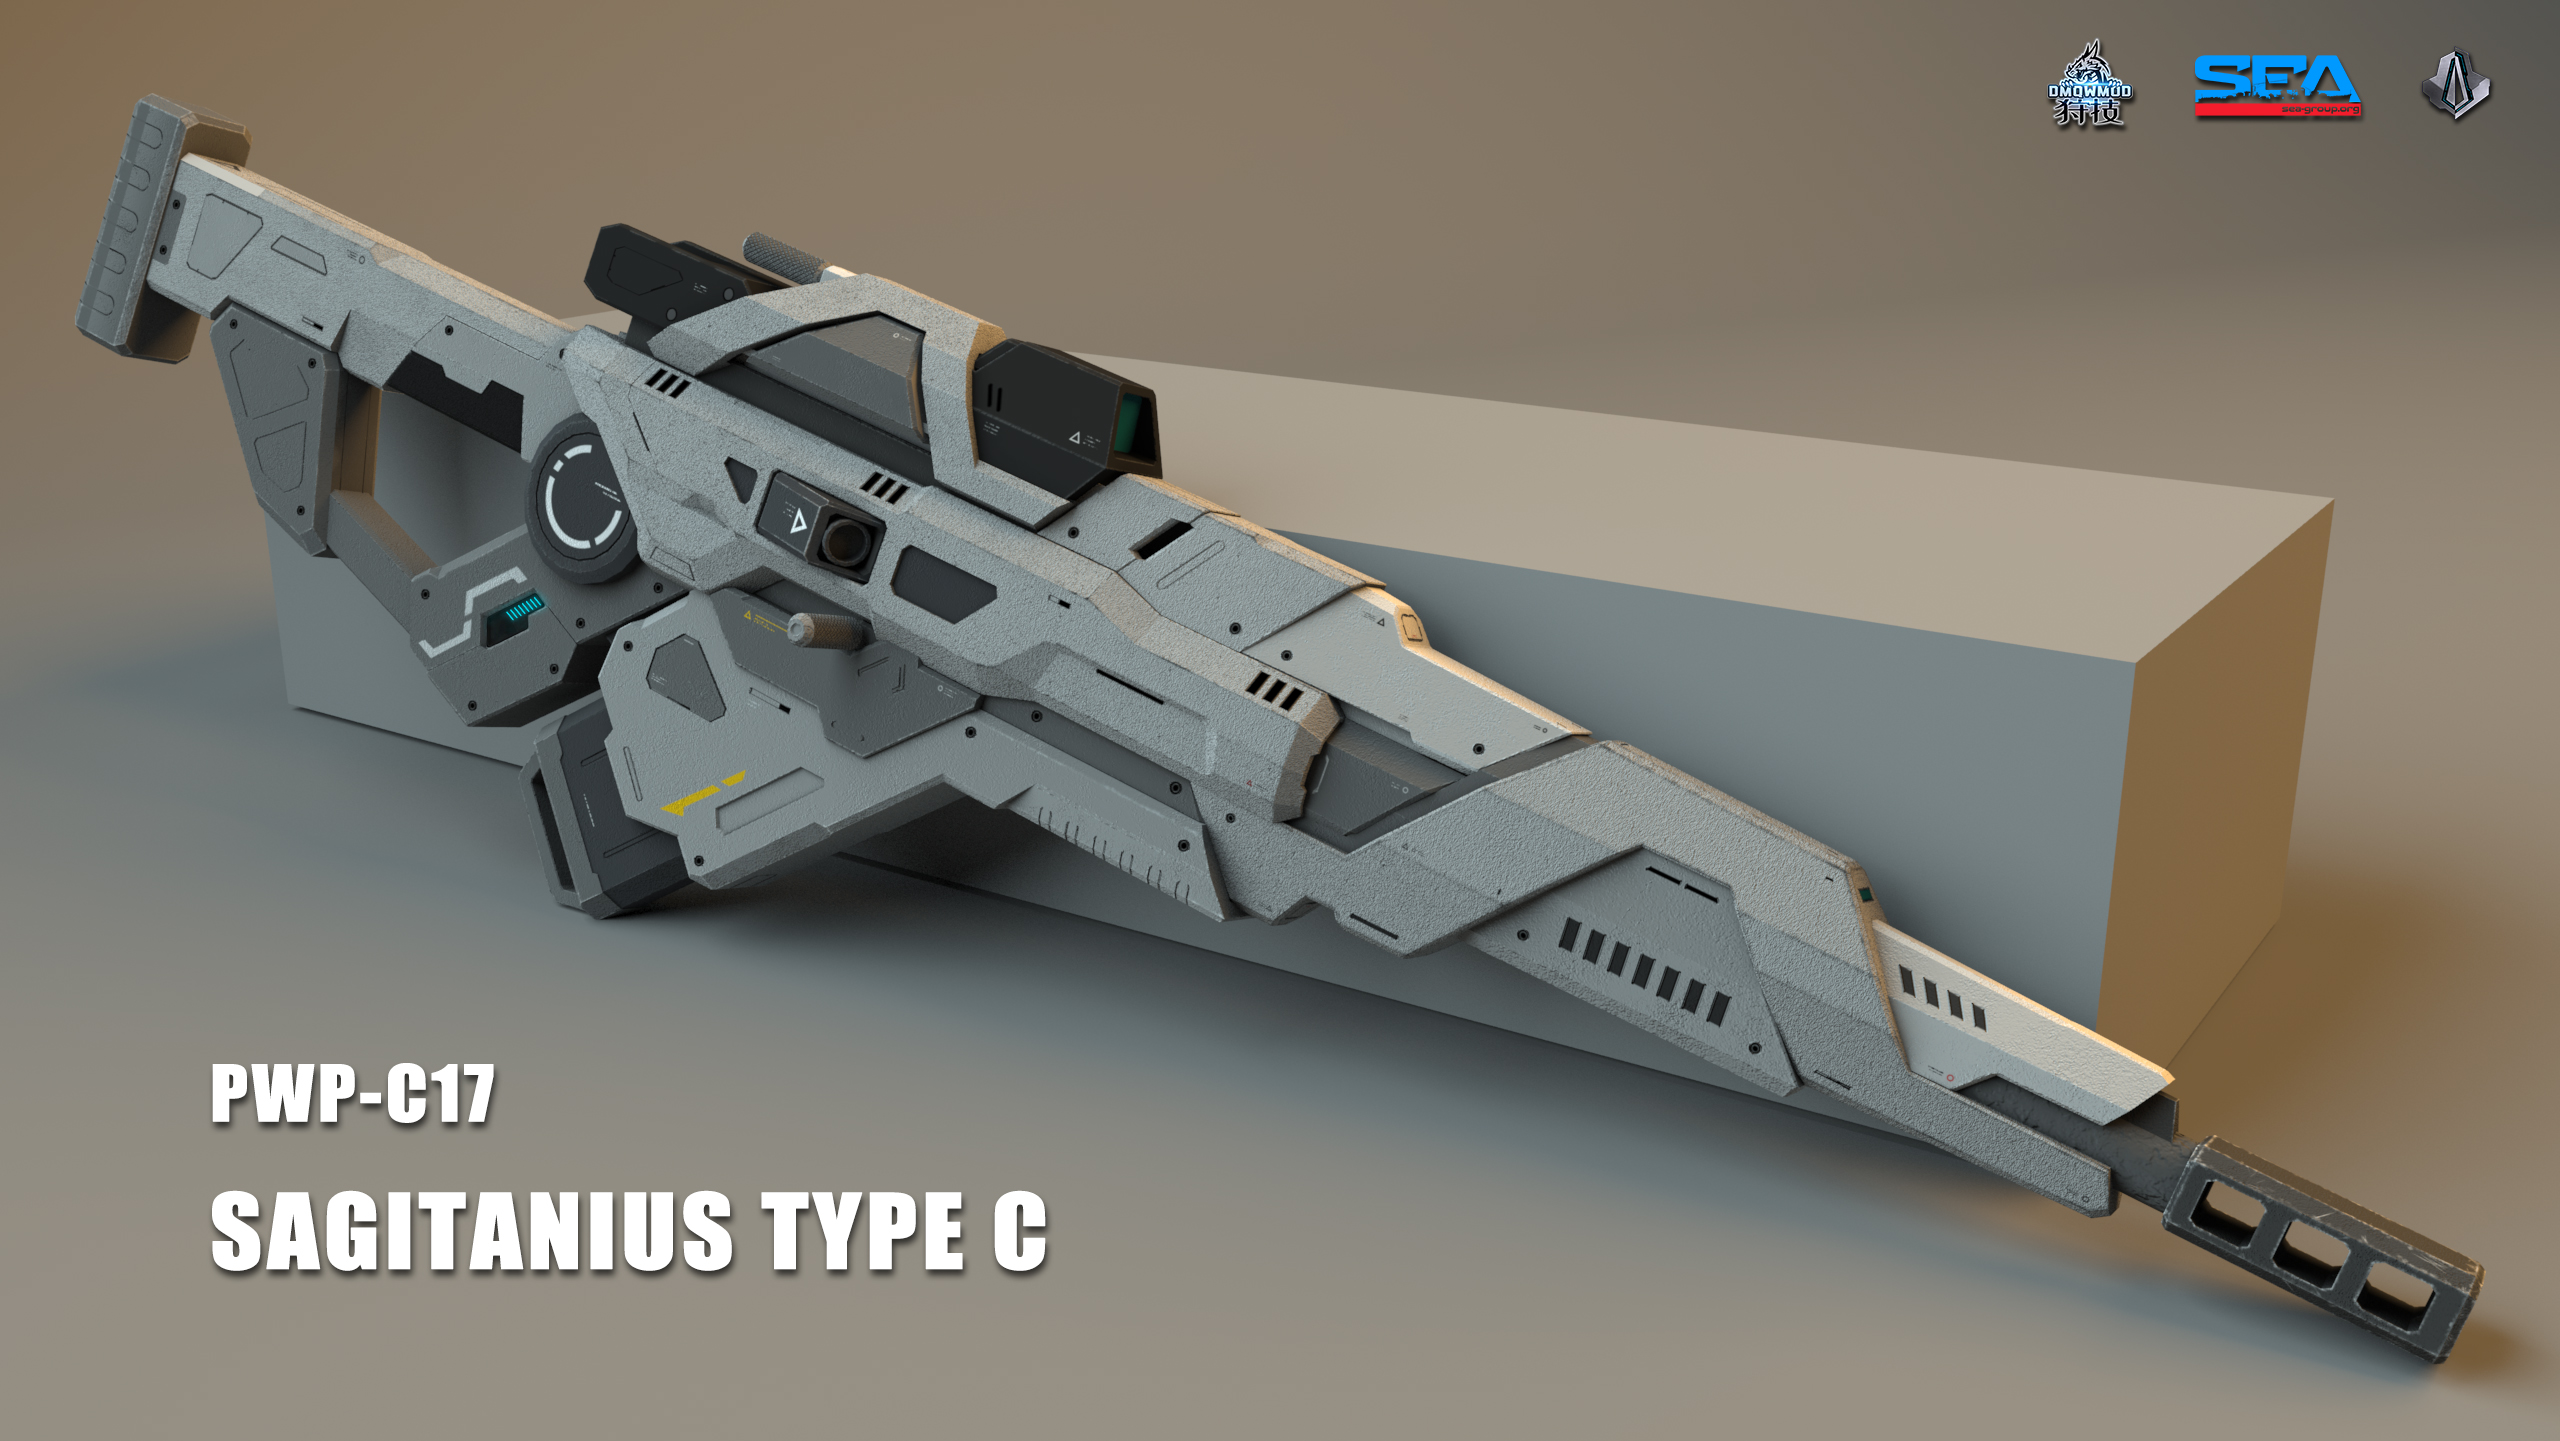
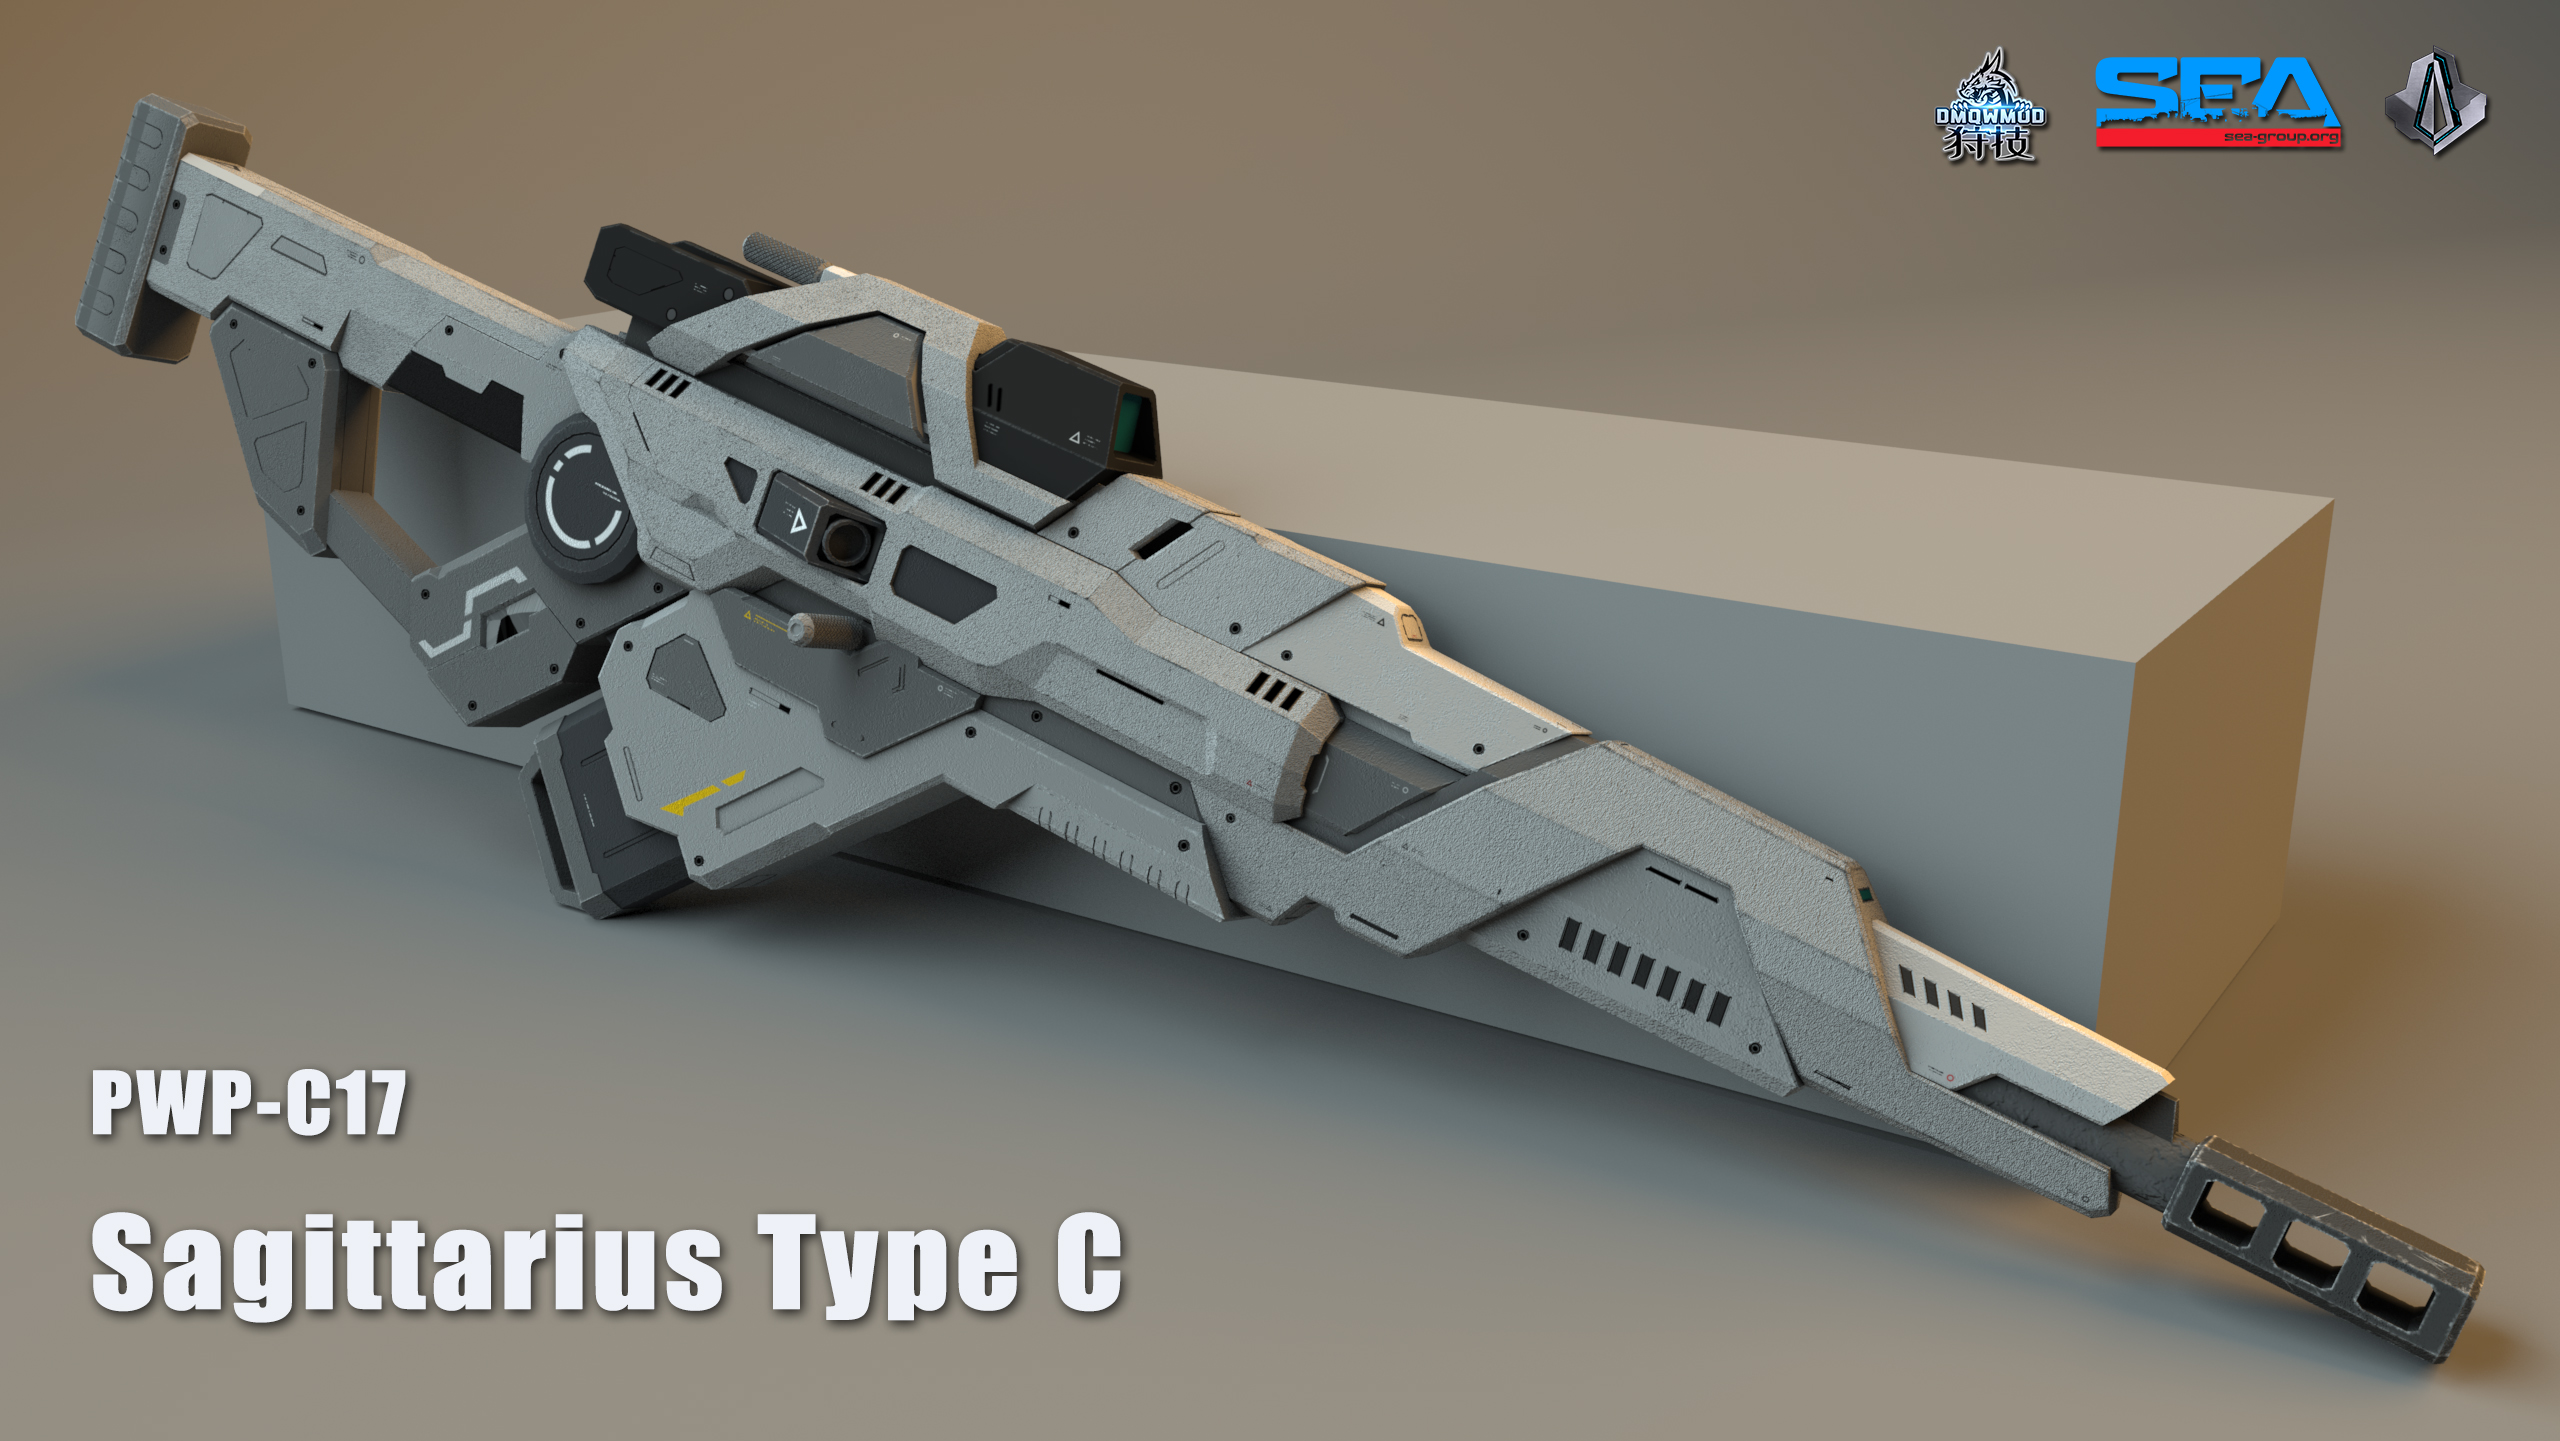
v1.1

Changed region(s): [[0.0312, 0.7183, 0.4375, 0.9368], [0.75, 0.0312, 0.9688, 0.1249], [0.1875, 0.406, 0.2188, 0.4372]]

diff --git a/README.md b/README.md
@@ -1,4 +1,4 @@
-# MHW Weapon skin mod: PWP-C17 Sagitanius type C
+# MHW Weapon skin mod: PWP-C17 Sagittanius type C
 
 ======================Presented by SEA group & 狩技======================
 
